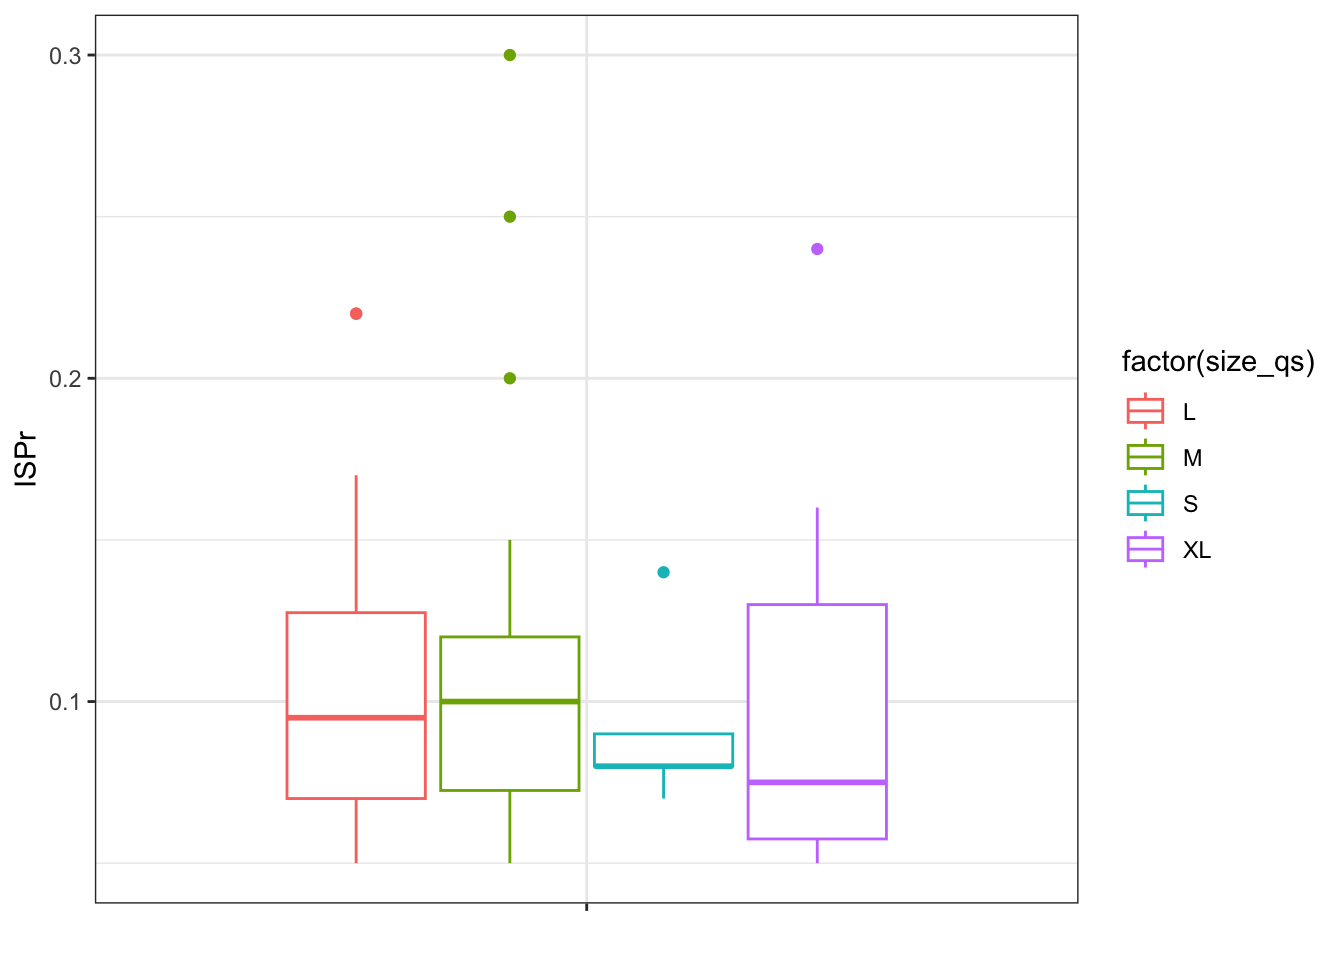
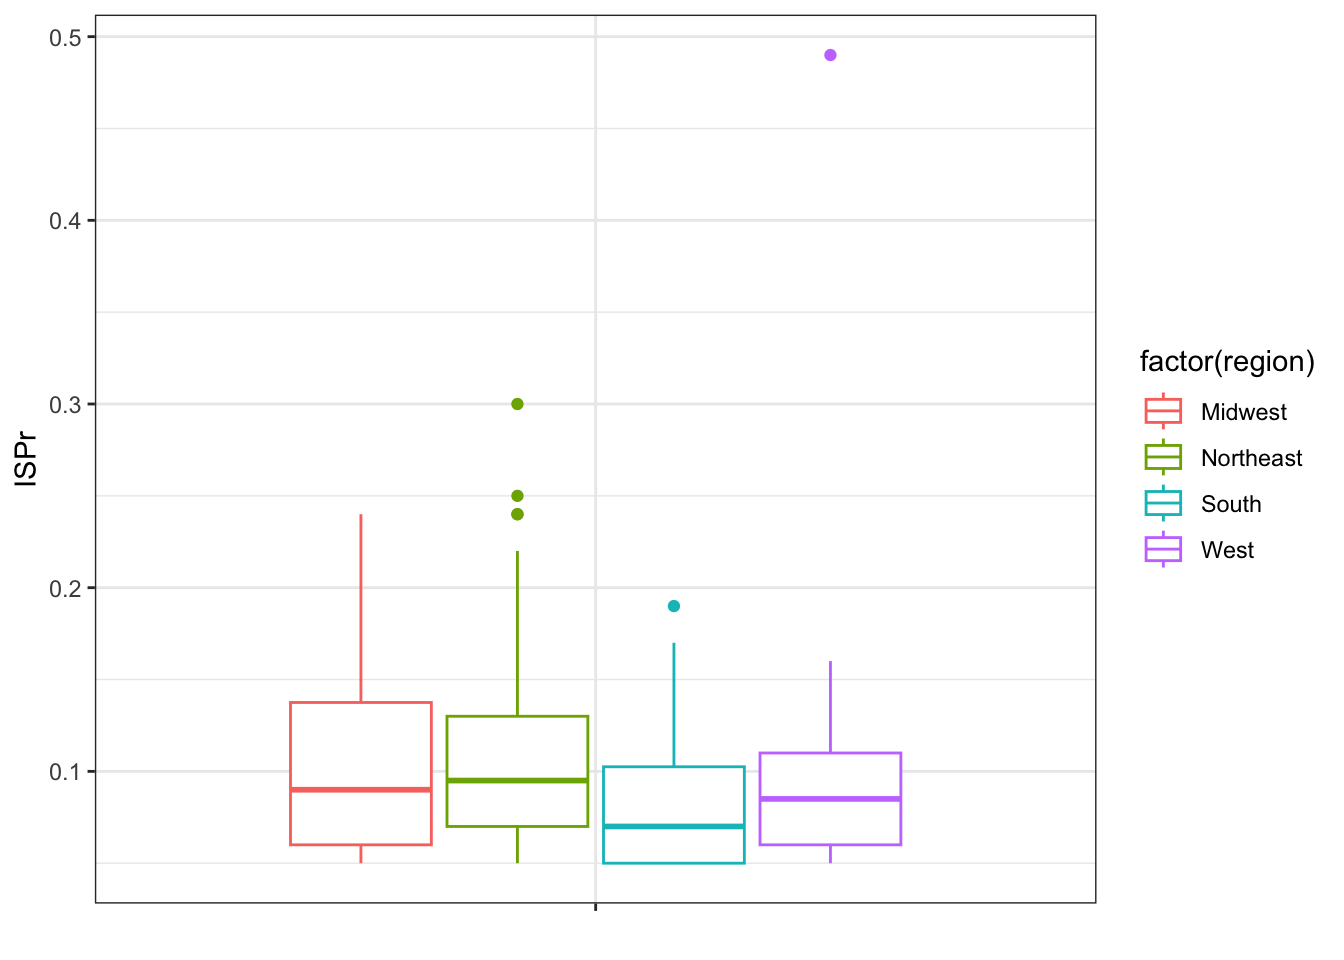
analysis update

diff --git a/content/analysis.html b/content/analysis.html
@@ -1,5 +1,5 @@
 ---
-title: Analysis 1
+title: Analysis Part 1
 description:
 toc: true
 featuredVideo: 
@@ -16,19 +16,20 @@ draft: false
 <h2>Motivation</h2>
 <p>Most of our teammates are international students from China and Korea. We found an article that the number of international students in the US unprecedentedly still increased during 2019to 2021. Widespread travel restrictions do not appear to have had a large impact on freshmen applying to U.S. universities from outside the U.S. We wanted to see what influences international students to choose certain institutions in the United States.</p>
 <p>One of our teammates, Yawei suggested that the top three considerations were: safety, ranking of the university in my field, and the “dynamics” of the campus. The percentage of the international student body would fall under the third category. However, while there has been quite convenient data on the first two categories, the judgment of the third was more based on gut or anecdotes. The rankings on US News, for example, are a weighted composite score of many aspects, but we were not sure whether the international student body is one of the criteria (probably not, but I believe there is correlation there). Therefore, we considered that we could explore more about this potential correlation (x=% of international students, y=rankings) while trying to add in other interesting and relevant information, such as the nationalities of international students, crime rate of the city, etc</p>
-<p>The “main” research question is to explore the relationship between percentage of international student population (x-axis) and the ranking of US universities (y-axis). We can then add more interesting complexities/layers to the basic graph through “group_by”, “color”, “fill”, “facet” and different “geoms_plots” using variables such as nationalities, number of (top xx) universities in the city, crime rates of the city, location of the university (on a US map), and ranking type (e.g., undergraduate, graduate cs, graduate education, graduate business, graduate law).</p>
+<p>The “main” research question is to explore the relationship between percentage of international student population (x-axis) and the ranking of US universities (y-axis). We can then add more interesting complexities/layers to the basic graph through <em>“group_by”, “color”, “fill”, “facet”</em> and different “geoms_plots” using variables such as nationalities, number of (top xx) universities in the city, crime rates of the city, location of the university (on a US map), and ranking type (e.g., undergraduate, graduate cs, graduate education, graduate business, graduate law).</p>
 <p>We also wanted to answer the questions below:
-How has the number of international students in the US changed over time? (x= school years, y= international students’ population)
-New enrollment percentage of international students (x= school years, y= international students’ population % change)
-How do new enrollment trends vary by academic level?
-Breakdown of international students by the US region they live (2021 vs 2016)</p>
+<em>First:</em> How has the number of international students in the US changed over time? (x= school years, y= international students’ population)
+<em>Second:</em> New enrollment percentage of international students (x= school years, y= international students’ population % change)
+<em>Third:</em> How do new enrollment trends vary by academic level?
+<em>Fourth:</em> Breakdown of international students by the US region they live (2021 vs 2016)</p>
 </div>
 <div id="breadth-and-depth-of-da" class="section level2">
 <h2>Breadth and Depth of DA</h2>
 <p>Our group’s target variables are the international student population (ISPo) and proportion (ISPr) in US colleges, and we aim to identify the potential factors that correlate to and predict ISPo and ISPr.</p>
 <p><br>
 In the dataset, the features indicate ISPo and ISPr are following:
-ISPo: international_students_max
+<br>
+ISPo: international_students_max <br/>
 ISPr: international_students_natlib</p>
 </div>
 <div id="early-data-analysis" class="section level2">
@@ -49,36 +50,34 @@ Since we are solving a regression problem, our output is a continuous variable. 
 <h3>Continuous Predictors</h3>
 <p>To explore continuous variables’ correlations with the target variables, we have used a correlation matrix.
 <img src="/analysis_files/figure-html/unnamed-chunk-1-1.png" width="672" />
-We identified pairs of variables with high positive or negative correlations and selected numerical features that have an absolute value of correlation coefficient greater than 0.4 with respect to ISPo and ISPr.</p>
+<br></p>
+<p>We identified pairs of variables with high positive or negative correlations and selected numerical features that have an absolute value of correlation coefficient greater than 0.4 with respect to ISPo and ISPr.</p>
 <div id="for-ispo-the-relevant-numerical-features-are" class="section level4">
 <h4>For ISPo, the relevant numerical features are:</h4>
 <ol style="list-style-type: decimal">
-<li>international_students_opendoors,<br />
-</li>
-<li>enrollment_top120enrollment,<br />
-</li>
-<li>city_population,<br />
-</li>
-<li>international_students_qs,<br />
-</li>
-<li>international_students_natlib,<br />
-</li>
-<li>city_population_density</li>
+<li><del>The number of international students in Opendoors (international_students_opendoors)</del></li>
+<li>Total student enrollment number (enrollment_top120enrollment)</li>
+<li>City population (city_population)</li>
+<li>~~ The number of international students in QS (international_students_qs)~~</li>
+<li><del>Percentage of international students (international_students_natlib)</del></li>
+<li>City population density (city_population_density)</li>
 </ol>
 <p><br></p>
-<p>Below is the scatter plot and correlation matrix of ISPo related data to check how the dots are scattered and whether two variables have weak/moderate positive/negative relations. <br>
+<p>Below is the scatter plot and correlation matrix of ISPo related data to check how the dots are scattered and whether two variables have weak/moderate positive/negative relations.
+<br>
 <img src="/analysis_files/figure-html/unnamed-chunk-2-1.png" width="672" /></p>
 </div>
 <div id="for-ispr-the-relevant-numerical-features-are" class="section level4">
 <h4>For ISPr, the relevant numerical features are:</h4>
 <ol style="list-style-type: decimal">
-<li>city_population_density<br />
+<li>City population density (city_population_density)<br />
 </li>
-<li>faculty_count_qs</li>
+<li>The number of faculty or academic staff at the university (faculty_count_qs)</li>
 </ol>
-<p><br>
-Below is the scatter plot and correlation matrix of ISPr related data to check how the dots are scattered and whether two variables have weak/moderate positive/negative relations. <br>
-<img src="/analysis_files/figure-html/unnamed-chunk-3-1.png" width="672" /></p>
+<p><br></p>
+<p>Below is the scatter plot and correlation matrix of ISPr related data to check how the dots are scattered and whether two variables have weak/moderate positive/negative relations.
+<br></p>
+<p><img src="/analysis_files/figure-html/unnamed-chunk-3-1.png" width="672" /></p>
 </div>
 </div>
 <div id="categorical-predictors" class="section level3">
@@ -108,61 +107,60 @@ We build logistic regression models with single categorical variable predictors 
 ## AIC: 16.015
 ## 
 ## Number of Fisher Scoring iterations: 19</code></pre>
-<p><br>
-#### For ISPo, the relevant categorical features are:<br />
-1. research_output_qs<br />
-2. size_qs<br />
-3. type3_natlib<br />
-4. type4_carnegie<br />
-5. state<br />
-6. selectivity<br />
-7. world_rank_cat_arwu</p>
-<p><br>
-####Boxplots of ISPo and Categorical Variables
-<img src="/analysis_files/figure-html/unnamed-chunk-5-1.png" width="672" /><img src="/analysis_files/figure-html/unnamed-chunk-5-2.png" width="672" /><img src="/analysis_files/figure-html/unnamed-chunk-5-3.png" width="672" /><img src="/analysis_files/figure-html/unnamed-chunk-5-4.png" width="672" /></p>
-<p>To make the state variable viewable we created the feature “region” using “state” by grouping states into four regions(Midwest, West, South, and Northeast)</p>
-<p><img src="/analysis_files/figure-html/unnamed-chunk-6-1.png" width="672" /></p>
+<p><br></p>
+<div id="for-ispo-the-relevant-categorical-features-are" class="section level4">
+<h4>For ISPo, the relevant categorical features are:</h4>
+<ol style="list-style-type: decimal">
+<li>Quality of research (research_output_qs)<br />
+</li>
+<li>Size of the university (size_qs)<br />
+</li>
+<li>National or Liberal Arts (type3_natlib)<br />
+</li>
+<li>Carnegie Basic Classification (type4_carnegie)<br />
+</li>
+<li>Located State in the US (state)<br />
+</li>
+<li>Selectivity (selectivity)<br />
+</li>
+<li>World ranking from ARWU (world_rank_cat_arwu)</li>
+</ol>
+<p><br></p>
+</div>
+<div id="boxplots-of-ispo-and-relevant-categorical-variables" class="section level4">
+<h4>Boxplots of ISPo and Relevant Categorical Variables</h4>
+<p><img src="/analysis_files/figure-html/unnamed-chunk-5-1.png" width="672" /><img src="/analysis_files/figure-html/unnamed-chunk-5-2.png" width="672" /><img src="/analysis_files/figure-html/unnamed-chunk-5-3.png" width="672" /><img src="/analysis_files/figure-html/unnamed-chunk-5-4.png" width="672" />
+<br>
+To make the state variable viewable we created the feature “region” using “state” by grouping states into four regions(Midwest, West, South, and Northeast) and then we made boxplots with region variable
+<br>
+<img src="/analysis_files/figure-html/unnamed-chunk-6-1.png" width="672" /></p>
+</div>
 <div id="for-ispr-the-relevant-categorical-features-are" class="section level4">
 <h4>For ISPr, the relevant categorical features are:</h4>
 <ol style="list-style-type: decimal">
-<li>research_output_qs<br />
+<li>Quality of research (research_output_qs)<br />
 </li>
-<li>size_qs<br />
+<li>Size of the university (size_qs)<br />
 </li>
-<li>locale_carnegie<br />
+<li>Urban-centric locale (locale_carnegie)</li>
+<li>Enrollment profile classification (enrprofile2021_carnegie)<br />
 </li>
-<li>enrprofile2021_carnegie<br />
+<li>Year and size classification (type2_carnegie)<br />
 </li>
-<li>type2_carnegie<br />
+<li>Carnegie Basic Classification (type4_carnegie)</li>
+<li>World ranking from ARWU (world_rank_cat_arwu)<br />
 </li>
-<li>type4_carnegie</li>
-<li>world_rank_cat_arwu<br />
+<li>Selectivity (selectivity)<br />
 </li>
-<li>selectivity<br />
-</li>
-<li>state</li>
+<li>Located State in the US (state)</li>
 </ol>
-<div id="ispr-plot1-boxplot-of-ispr-and-research-output" class="section level5">
-<h5>IsPr Plot1: Boxplot of ISPr and Research Output</h5>
-<pre class="r"><code>data1 &lt;- clean_data[c(&quot;international_students_natlib&quot;, &quot;research_output_qs&quot;)] %&gt;% drop_na()
-data1_melt &lt;- melt(data1, id = &quot;research_output_qs&quot;)
-p1 &lt;- ggplot(data1_melt, aes(x = variable, y = value, color = factor(research_output_qs))) + geom_boxplot() + theme_bw() +
-      theme(axis.text.x=element_blank()) + labs(x = &quot;&quot;, y = &quot;ISPr&quot;)
-p1</code></pre>
-<p><img src="/analysis_files/figure-html/unnamed-chunk-7-1.png" width="672" /></p>
 </div>
-<div id="plot2-boxplot-of-ispr-and-research-output" class="section level5">
-<h5>Plot2: Boxplot of ISPr and Research Output</h5>
-<pre class="r"><code>ISPr_Cat &lt;- clean_data[c(&quot;international_students_natlib&quot;, &quot;research_output_qs&quot;,&quot;size_qs&quot;, &quot;locale_carnegie&quot;, &quot;enrprofile2021_carnegie&quot;, &quot;type2_carnegie&quot;, &quot;type4_carnegie&quot;, &quot;world_rank_cat_arwu&quot;, &quot;selectivity&quot;, &quot;state&quot;)] 
-
-data2 &lt;- prev_data[c(&quot;international_students_natlib&quot;, &quot;size_qs&quot;)] %&gt;% drop_na()
-data2_melt &lt;- melt(data2, id = &quot;size_qs&quot;)
-p2 &lt;- ggplot(data1_melt, aes(x = variable, y = value)) + geom_boxplot() + theme_bw() + theme(axis.text.x=element_blank()) + labs(x = &quot;&quot;, y = &quot;ISPr&quot;)
-p2 &lt;- ggplot(data2_melt, aes(x = variable, y = value, color = factor(size_qs))) + geom_boxplot() + theme_bw() +
-      theme(axis.text.x=element_blank()) + labs(x = &quot;&quot;, y = &quot;ISPr&quot;)
-p2</code></pre>
-<p><img src="/analysis_files/figure-html/unnamed-chunk-8-1.png" width="672" /></p>
-</div>
+<div id="boxplots-of-ispr-and-relevant-categorical-variables" class="section level4">
+<h4>Boxplots of ISPr and Relevant Categorical Variables</h4>
+<p><img src="/analysis_files/figure-html/unnamed-chunk-7-1.png" width="672" /><img src="/analysis_files/figure-html/unnamed-chunk-7-2.png" width="672" /><img src="/analysis_files/figure-html/unnamed-chunk-7-3.png" width="672" /><img src="/analysis_files/figure-html/unnamed-chunk-7-4.png" width="672" /><img src="/analysis_files/figure-html/unnamed-chunk-7-5.png" width="672" /><img src="/analysis_files/figure-html/unnamed-chunk-7-6.png" width="672" /></p>
+<p><br>
+Same as ISPo, we made boxplots with “region” variable, which is a feature made with “state”
+<img src="/analysis_files/figure-html/unnamed-chunk-8-1.png" width="672" /></p>
 </div>
 </div>
 <div id="finalized-features" class="section level3">
@@ -368,53 +366,5 @@ We also see that the p-value scores are low for all models, which implies the pr
 <div id="proposed-solution-1" class="section level3">
 <h3>Proposed Solution:</h3>
 <p>For the next investigation, data on longitude and latitude of the universities could be explored to see whether distance (Euclidean, Manhattan, Harvesine, Cosine) to any international hubs or attractions. In general, the investigator could see try to see if there are any more non-linear relations between ISPr/ISPo and some combination or transformation of independent variables. The investigator would also need to apply some regularization penalties if there is overfitting from the feature engineering.</p>
-<hr />
-</div>
-<div id="rubric-on-this-page" class="section level2">
-<h2>Rubric: On this page</h2>
-<p>you will</p>
-<ul>
-<li>Introduce what motivates your Data Analysis (DA)
-<ul>
-<li>Which variables and relationships are you most interested in?</li>
-<li>What questions are you interested in answering?</li>
-</ul></li>
-<li>Breadth of the DA
-<ul>
-<li>Make sure that you ask enough initial questions to explore the different variables in your data.</li>
-<li>i.e. Do you explore more than just one or two variables? Do you explore a few different relationships or many?</li>
-</ul></li>
-<li>Depth of the DA
-<ul>
-<li>When you answer one question, usually more questions arise as well.</li>
-<li>The depth of the DA is about coming up with and exploring the answers to these questions, often iterating the process a few times.</li>
-</ul></li>
-<li>Modeling and Inference
-<ul>
-<li>You should also include some kind of formal statistical model and/or inference. This could be a linear regression, logistic regression, hypothesis testing etc.</li>
-<li>Explain the techniques you used for validating your results.</li>
-<li>Describe the results of your modelling and make sure to give a sense of the uncertainty in your estimates and conclusions.</li>
-</ul></li>
-<li>Explain the flaws and limitations of your analysis
-<ul>
-<li>Are there some assumptions that you needed to make that might not hold? Is there other data that would help to answer your questions? …</li>
-</ul></li>
-<li>Clarity Figures
-<ul>
-<li>Are your figures/tables/results easy to read, informative, without problems like overplotting, hard-to-read labels, etc?</li>
-<li>Each figure should provide a key insight. Too many figures or other data summaries can detract from this.</li>
-</ul></li>
-<li>Clarity of Explanations
-<ul>
-<li>Do you introduce why you are doing each analysis?</li>
-<li>How well do you explain each figure/result?</li>
-<li>Do you provide interpretations that suggest further analysis or explanations for observed phenomenon?</li>
-</ul></li>
-<li>Organization and cleanliness.
-<ul>
-<li>Make sure to remove excessive warnings, use clean easy-to-read code, organize with sections or multiple pages, use bullets, etc.</li>
-</ul></li>
-</ul>
-<p><strong>NOTE</strong>: Your Data Analysis can be broken up into multiple pages if that helps with your organization.</p>
 </div>
 </div>
